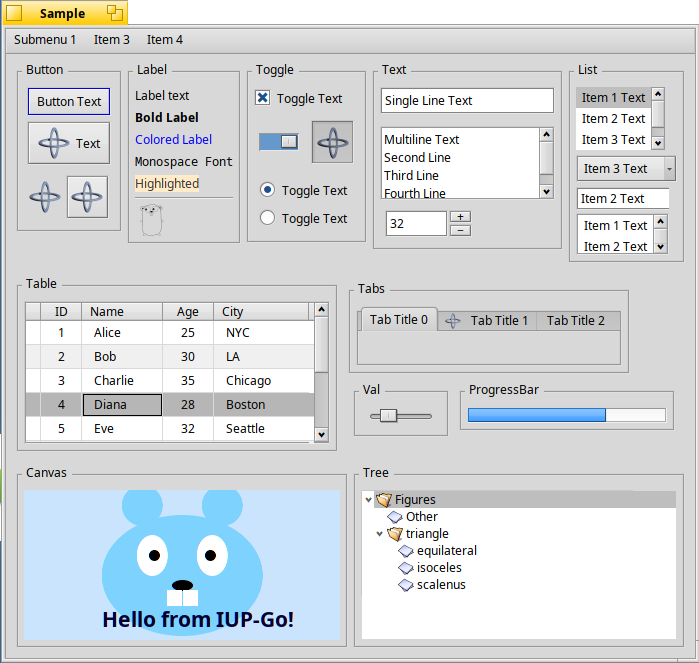
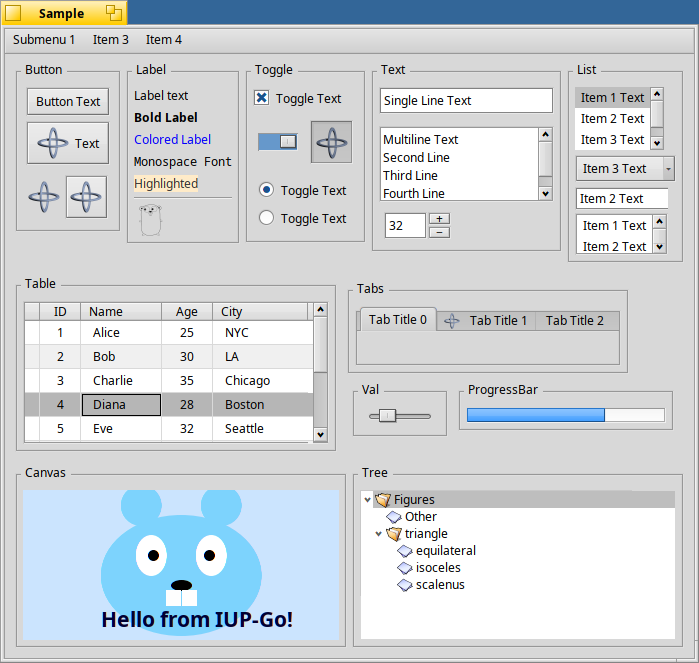
haiku: Count the text view line spacing in the multiline size

diff --git a/iup/external/src/haiku/iuphaiku_text.cpp b/iup/external/src/haiku/iuphaiku_text.cpp
@@ -2122,8 +2122,9 @@ extern "C" IUP_SDK_API void iupdrvTextAddBorders(Ihandle* ih, int* w, int* h)
 {
   if (ih && ih->data && ih->data->is_multiline)
   {
+    /* BScrollView fancy border, and BTextView spaces the lines 1 pixel more than the font height */
     if (w) *w += 6;
-    if (h) *h += 6;
+    if (h) *h += 2 * 2 + iupAttribGetInt(ih, "VISIBLELINES");
     return;
   }
   haikuTextProbeChrome(w, h);
